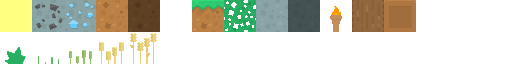
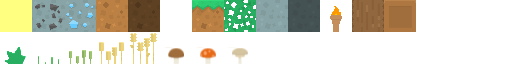
Added mushrooms, which generate occasionally on trees

Changed region(s): [[0.3125, 0.75, 0.5, 1.0]]

diff --git a/core/src/com/jmrapp/terralegion/game/world/entity/DropManager.java b/core/src/com/jmrapp/terralegion/game/world/entity/DropManager.java
@@ -32,6 +32,9 @@ public class DropManager {
         drops.put(BlockType.CROP_BLOCK_1.getId(), new Drop(ItemManager.getInstance().getItem(ItemType.SEED), ResourceManager.getInstance().getDrawable("seed")));
         drops.put(BlockType.CROP_BLOCK_2.getId(), new Drop(ItemManager.getInstance().getItem(ItemType.SEED), ResourceManager.getInstance().getDrawable("seed")));
         drops.put(BlockType.CROP_BLOCK_3.getId(), new Drop(ItemManager.getInstance().getItem(ItemType.SEED), ResourceManager.getInstance().getDrawable("seed")));
+        drops.put(BlockType.MUSHROOM_BROWN.getId(), new Drop(ItemManager.getInstance().getItem(BlockType.MUSHROOM_BROWN), ResourceManager.getInstance().getDrawable("mushroom0")));
+        drops.put(BlockType.MUSHROOM_RED.getId(), new Drop(ItemManager.getInstance().getItem(BlockType.MUSHROOM_RED), ResourceManager.getInstance().getDrawable("mushroom1")));
+        drops.put(BlockType.MUSHROOM.getId(), new Drop(ItemManager.getInstance().getItem(BlockType.MUSHROOM), ResourceManager.getInstance().getDrawable("mushroom2")));
     }
 
     public Drop getDrop(BlockType type, int stackCount, float x, float y) {

diff --git a/core/src/com/jmrapp/terralegion/game/item/ItemManager.java b/core/src/com/jmrapp/terralegion/game/item/ItemManager.java
@@ -33,6 +33,9 @@ public class ItemManager {
 		items.put(BlockType.WOOD_CHEST.getId(), new BlockItem(BlockType.WOOD_CHEST, ItemCategory.BLOCK, "Wooden Chest", ResourceManager.getInstance().getDrawable("chest"), 64));
 		items.put(BlockType.COVER_GRASS.getId(), new BlockItem(BlockType.COVER_GRASS, ItemCategory.BLOCK, "Cover Grass", ResourceManager.getInstance().getDrawable("covergrass"), 64));
 		items.put(ItemType.SEED.getId(), new SeedItem(ItemType.SEED.getId(), ItemCategory.MISC, "Seed", ResourceManager.getInstance().getDrawable("seed"), 64, 1.0f));
+		items.put(BlockType.MUSHROOM_BROWN.getId(), new BlockItem(BlockType.MUSHROOM_BROWN, ItemCategory.MISC, "Brown Mushroom", ResourceManager.getInstance().getDrawable("mushroom0"), 64));
+		items.put(BlockType.MUSHROOM_RED.getId(), new BlockItem(BlockType.MUSHROOM_RED, ItemCategory.MISC, "Red Mushroom", ResourceManager.getInstance().getDrawable("mushroom1"), 64));
+		items.put(BlockType.MUSHROOM.getId(), new BlockItem(BlockType.MUSHROOM, ItemCategory.MISC, "Mushroom", ResourceManager.getInstance().getDrawable("mushroom2"), 64));
 	}
 
 	public Item getItem(ItemType type) {

diff --git a/core/src/com/jmrapp/terralegion/game/world/block/BlockManager.java b/core/src/com/jmrapp/terralegion/game/world/block/BlockManager.java
@@ -29,6 +29,9 @@ public class BlockManager {
 		blocks.put(BlockType.WOOD_CHEST, new ChestBlock(3, 3, BlockType.WOOD_CHEST, ResourceManager.getInstance().getDrawable("chest"), .15f, true, false, 5f, .1f));
 		blocks.put(BlockType.COVER_GRASS, new CoverGrassBlock(BlockType.COVER_GRASS, ResourceManager.getInstance().getDrawable("covergrass"), .01f, false, false, .1f, .1f));
 		blocks.put(BlockType.CROP_BLOCK_0, new CropBlock(BlockType.CROP_BLOCK_0, ResourceManager.getInstance().getDrawable("crop0"), 0.1f, false, true, 0.1f, 0.1f));
+		blocks.put(BlockType.MUSHROOM_BROWN, new Block(BlockType.MUSHROOM_BROWN, ResourceManager.getInstance().getDrawable("mushroom0"), .15f, false, false, .5f, .1f));
+		blocks.put(BlockType.MUSHROOM_RED, new Block(BlockType.MUSHROOM_RED, ResourceManager.getInstance().getDrawable("mushroom1"), .15f, false, false, .5f, .1f));
+		blocks.put(BlockType.MUSHROOM, new Block(BlockType.MUSHROOM, ResourceManager.getInstance().getDrawable("mushroom2"), .15f, false, false, .5f, .1f));
 	}
 	
 	public static Block getBlock(BlockType type) {

diff --git a/core/src/com/jmrapp/terralegion/game/world/chunk/gen/TreeGenerator.java b/core/src/com/jmrapp/terralegion/game/world/chunk/gen/TreeGenerator.java
@@ -7,6 +7,8 @@ import java.util.Random;
 
 public class TreeGenerator {
 
+    private static final BlockType[] MUSHROOMS = {BlockType.MUSHROOM_BROWN, BlockType.MUSHROOM_RED, BlockType.MUSHROOM};
+
     public static void generateTree(Chunk chunk, int x, int y) {
         int randomNum1 = getRandomNumber(1, 4);
         int leavesLength;
@@ -39,6 +41,10 @@ public class TreeGenerator {
             chunk.setBlock(BlockType.LEAVES, x+1, y+stemLength-i, false);
         }
         chunk.setBlock(BlockType.LEAVES, x, y+stemLength, false);
+
+        if(getRandomNumber(1, 5) == 4){
+            chunk.setBlock(MUSHROOMS[getRandomNumber(0, MUSHROOMS.length-1)], x, y+stemLength + 1, false);
+        }
     }
 
     private static int getRandomNumber(int min, int max) {

diff --git a/core/src/com/jmrapp/terralegion/PhysicsGame.java b/core/src/com/jmrapp/terralegion/PhysicsGame.java
@@ -85,6 +85,9 @@ public class PhysicsGame implements ApplicationListener {
         ResourceManager.getInstance().loadAtlasRegionDrawable("crop1", atlas, "crop1");
         ResourceManager.getInstance().loadAtlasRegionDrawable("crop2", atlas, "crop2");
         ResourceManager.getInstance().loadAtlasRegionDrawable("crop3", atlas, "crop3");
+        ResourceManager.getInstance().loadAtlasRegionDrawable("mushroom0", atlas, "mushroom0");
+        ResourceManager.getInstance().loadAtlasRegionDrawable("mushroom1", atlas, "mushroom1");
+        ResourceManager.getInstance().loadAtlasRegionDrawable("mushroom2", atlas, "mushroom2");
 
         atlas = new TextureAtlas(Gdx.files.internal("tiles/drops.atlas"));
         //DROPS

diff --git a/core/src/com/jmrapp/terralegion/game/world/block/BlockType.java b/core/src/com/jmrapp/terralegion/game/world/block/BlockType.java
@@ -3,7 +3,8 @@ package com.jmrapp.terralegion.game.world.block;
 public enum BlockType {
 
 	AIR(0), DIRT(1), GRASS(2), STONE(3), DIAMOND(4), TORCH(5), STONE_WALL(6), COAL(8), DIRT_WALL(9),
-    WOOD(10), LEAVES(11), WOOD_CHEST(14), COVER_GRASS(15), CROP_BLOCK_0(16), CROP_BLOCK_1(17), CROP_BLOCK_2(18), CROP_BLOCK_3(19);
+    WOOD(10), LEAVES(11), WOOD_CHEST(14), COVER_GRASS(15), CROP_BLOCK_0(16), CROP_BLOCK_1(17), CROP_BLOCK_2(18), CROP_BLOCK_3(19),
+    MUSHROOM_BROWN(21), MUSHROOM_RED(22), MUSHROOM(23);
 
     private static final BlockType[] blockTypeArray = values();
 	private final int id;

diff --git a/core/src/com/jmrapp/terralegion/game/item/ItemType.java b/core/src/com/jmrapp/terralegion/game/item/ItemType.java
@@ -2,7 +2,7 @@ package com.jmrapp.terralegion.game.item;
 
 public enum ItemType {
 
-	WOODEN_PICKAXE(7), SWORD(12), STICK(13), SEED(20);
+	WOODEN_PICKAXE(7), SWORD(12), STICK(13), SEED(20), MUSHROOM_BROWN(24), MUSHROOM_RED(25), MUSHROOM(26);
 
 	private final int id;
 
